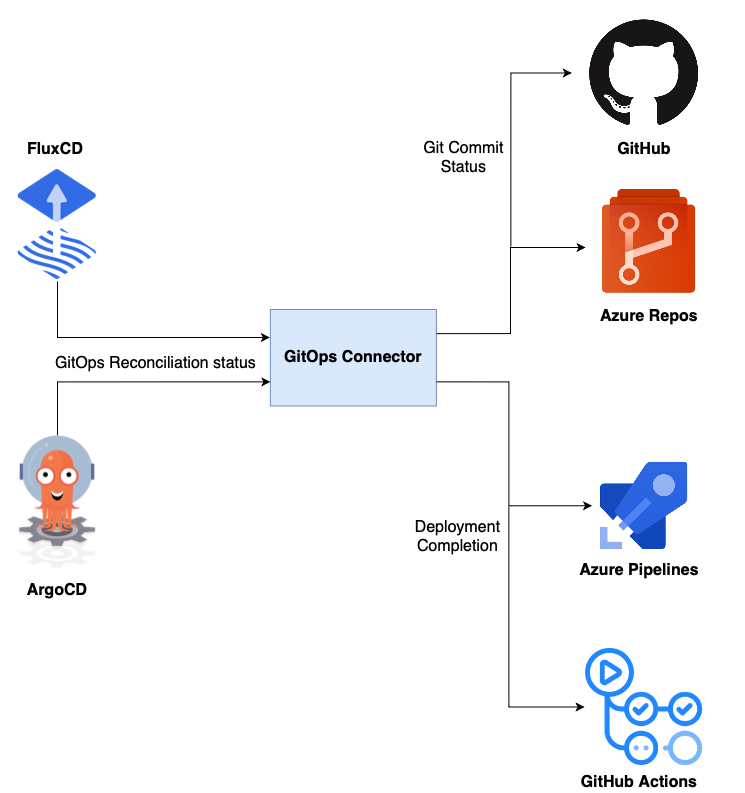
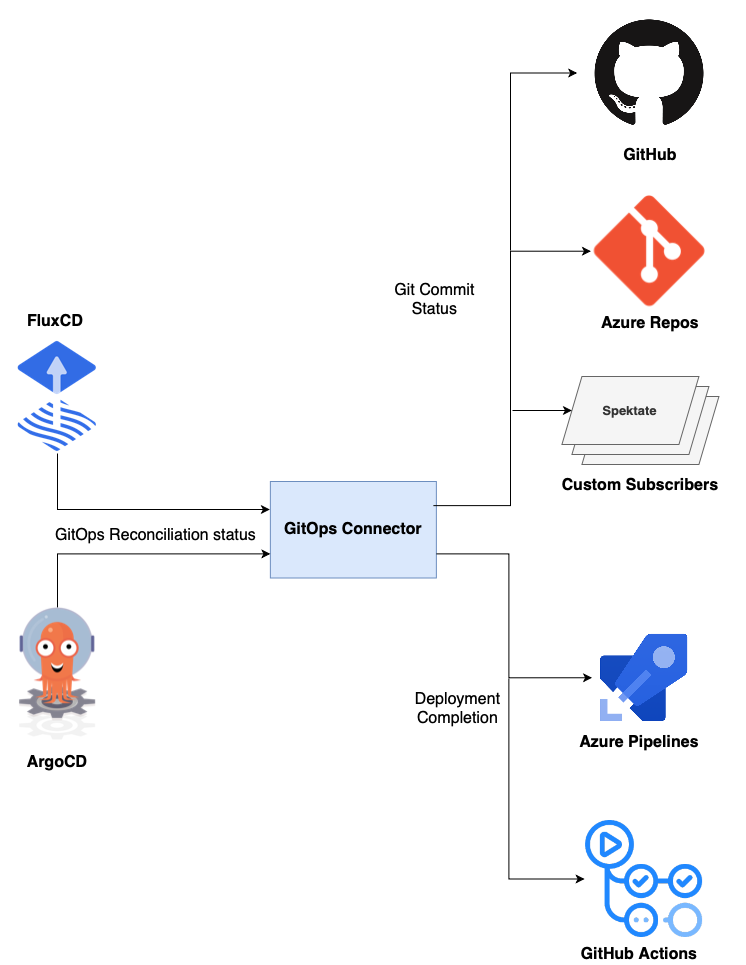
Readme (#12)

diff --git a/README.md b/README.md
@@ -10,6 +10,12 @@ GitOps Connector is a custom component with the goal of enriching the integratio
 
 During the reconciliation process a GitOps operator notifies on every phase change and every health check the GitOps connector. This component serves as an adapter, it "knows" how to communicate to a Git repository and it updates the Git commit status so the synchronization progress is visible in the Manifests repository. When the reconciliation including health check has successfully finished or failed the connector notifies a CI/CD orchestrator, so the CD pipelines/workflows may perform corresponding actions such as testing, post-deployment activities and moving on to the next stage in the deployment chain.
 
+Refer to the following implementations to understand the role the GitOps Connector plays in various GitOps flows:
+
+- [GitOps with Azure DevOps and ArgoCD/Flux](https://github.com/kaizentm/cloud-native-ops/blob/master/docs/azdo-gitops.md)
+- [HLD based CI/CD Pipeline with GitOps connector](https://github.com/kaizentm/cloud-native-ops/blob/master/docs/cicd-hld-pipeline.md)
+- [GitOps with GitHub and Flux v2](https://github.com/kaizentm/cloud-native-ops/blob/master/docs/azdo-gitops-githubfluxv2.md)
+
 ## GitOps operators
 
 The GitOps Connector supports the following Git Ops operators:
@@ -24,12 +30,276 @@ The GitOps Connector supports the following Git repositories:
 - [Azure Repos](https://azure.microsoft.com/services/devops/repos/)
 - [GitHub](https://github.com)
 
+The connector reports the deployment process updates to the Git repositories with the Git commit status:
+
+|Commit Status in GitHub|Commit Status in Azure Repos|
+|---------|-----------|
+|![](./img/gh-commit-status.png)|![](./img/azdo-commit-status.png)|
+
+
+In addition to updating the Git commit status in Git repositories, the GitOps connector may optionally notify a list of custom subscribers with a json payload:
+
+|Attribute|Description|Sample|
+|---------|-----------|------|
+|commit_id| Commit Id in Manifests repo|42e2e5af9d49de268cd1fda3587788da4ace418a|
+|status_name| Event context | Sync; Health|
+|state| Event state | Progressing; Failed|
+|message| Full event message | Pending - Fetched revision 42e2e5af9d49de268cd1fda3587788da4ace418a|
+|callback_url| Callback URL with the details | https://github.com/kaizentm/gitops-manifests/commit/42e2e5af9d49de268cd1fda3587788da4ace418a|
+|gitops_operator| GitOps operator (Flux or ArgoCD) | Flux|
+|genre| Message category | GitRepository |
+
+
+Refer to [installation guide](#installation) for the details on configuring a list of custom subscribers. 
+
+
 ## Notification on Deployment Completion
+
+The GitOps connector analyzes the incoming messages from the GitOps operator and figures out when the deployment is finished, successfully or not. It notifies on this event the CI/CD orchestrator, so the orchestrator can proceed with the CD process.
+
+The notification mechanism on deployment completion varies for different CI/CD orchestrators.
 
 ### Azure Pipelines
 
+An Azure CD pipeline is supposed to create a PR to the manifests repo and wait in agentless mode until the PR is merged and the GitOps operator finishes the deployment. It may use PR properties as a storage for the agentless task callback parameters. 
+When the deployment is finished, the GitOps connector seeks the PR to the manifest repo that caused the deployment and looks for the PR's properties under the **/callback-task-id** path. It expects to find a json object with the following data: 
+
+```
+{"taskid":"$(System.TaskInstanceId)",
+ "jobid:"$(System.JobId)",
+ "planurl":"$(System.CollectionUri)",
+ "planid":"$(System.PlanId)",
+ "projectid":"$(System.TeamProjectId)",
+ "pr_num":"$(pr_num)"}
+```
+
+The GitOps connector uses this data to provide a callback to the agentless task with the following API:
+
+```
+POST {planurl}{projectid}/_apis/distributedtask/hubs/build/plans/{planid}/events?api-version=2.0-preview.1
+payload = {
+    'name': "TaskCompleted",
+    'taskId': {taskid},
+    'jobid': {jobid},
+    'result': "succeeded"/"failed"
+}
+```
+
+Refer to [a sample of such agentless task](https://github.com/kaizentm/cloud-native-ops/blob/master/.pipelines/pr-completion-task-template.yaml) for the implementation details.
+
 ### GitHub Actions
+
+If the CI/CD orchestrator is GitHub Actions, the GitOps connector sends a [dispatch event](https://docs.github.com/en/rest/reference/repos#create-a-repository-dispatch-event) on the successful deployment completion:
+
+```
+POST /repos/{owner}/{repo}/dispatches
+payload = {
+    'event_type': "sync-success",
+    'client_payload': {'sha': {commmit_id},                //Commit Id in source repo that started the CI/CD process 
+                      'runid': {github_workflow_run_id}    //GitHub Actions Workflow RunId that produced artifacts (e.g. Docker Image Tags)
+    }
+```
+
+If the deployment fails, the connector doesn't send a dispatch event to GitHub Actions.
+
+For the implementation details refer to [the CD workflow in this repo](.github/workflows/cd.yaml) that consumes CI artifacts, generates manifests and issues a PR to the manifests repo. Also, look at [the publish workflow](.github/workflows/publish.yaml) which is triggered on the deployment completion by the dispatch event from the GitOps connector. 
+
 
 ## Installation
 
-## Contribution
+### Install GitOps Connector with Helm
+
+Add **kaizentm** repository to Helm repos:
+
+```
+helm repo add kaizentm https://kaizentm.github.io/charts/
+```
+
+
+Prepare **values.yaml** file with the following attributes:
+
+|Attribute|Description|Sample|
+|---------|-----------|------|
+|gitRepositoryType| Git Repository Type (**AZDO** or **GITHUB**)| GITHUB |
+|ciCdOrchestratorType| CI/CD Orchestrator Type (**AZDO** or **GITHUB**)| GITHUB |
+|gitOpsOperatorType| GitOps Operator Type (**FLUX** or **ARGOCD**)| FLUX |
+|gitOpsAppURL| Call back URL from the Commit Status Window| https://github.com/kaizentm/gitops-manifests/commit; https://github.com/microsoft/spektate|
+|orchestratorPAT| GitHub or Azure DevOps personal access token |
+
+
+
+If Git Repository Type is AZDO, add the following attributes:
+|Attribute|Description|Sample|
+|---------|-----------|------|
+|azdoGitOpsRepoName| Azure DevOps Mainifests repository name| gen3-manifest |
+|azdoOrgUrl| Azure DevOps Organization URL| https://dev.azure.com/DataCommons/ProjectDataCommons |
+
+
+
+If CI/CD Orchestrator Type is AZDO, add the following attributes:
+|Attribute|Description|Sample|
+|---------|-----------|------|
+|azdoPrRepoName| Optional. When PRs are not issued to the manifests repo, but to a [separate HLD repo](https://github.com/kaizentm/cloud-native-ops/blob/master/docs/cicd-hld-pipeline.md)  | gen3-hld |
+|azdoOrgUrl| Azure DevOps Organization URL| https://dev.azure.com/DataCommons/ProjectDataCommons |
+
+
+
+If Git Repository Type is GITHUB, add the following attributes:
+|Attribute|Description|Sample|
+|---------|-----------|------|
+|gitHubGitOpsManifestsRepoName| GitHub Mainifests repository name| gitops-manifests |
+|gitHubOrgUrl| API url for the GitHub org| https://api.github.com/repos/kaizentm |
+
+
+
+If CI/CD Orchestrator Type is GITHUB, add the following attributes:
+|Attribute|Description|Sample|
+|---------|-----------|------|
+|gitHubGitOpsRepoName| GitHub Actions repository name| gitops-connector |
+|gitHubOrgUrl| API url for the GitHub org| https://api.github.com/repos/kaizentm |
+
+
+
+Optional. If there are custom Git Commit status subscribers:
+|Attribute|Description|Sample|
+|---------|-----------|------|
+|subscribers| List of key:value pairs defining subscriber name and endpoint | subscribers:<br>&emsp;spektate: 'http://spektate-server:5000/api/flux'
+
+
+A sample **values.yaml** file might look like this one:
+
+```
+gitRepositoryType: GITHUB          
+ciCdOrchestratorType: GITHUB
+gitOpsOperatorType: FLUX
+gitHubGitOpsRepoName: gitops-connector
+gitHubGitOpsManifestsRepoName: gitops-manifests
+gitHubOrgUrl: https://api.github.com/repos/kaizentm
+gitOpsAppURL: https://github.com/kaizentm/gitops-manifests/commit
+orchestratorPAT: <PAT>
+subscribers:
+    spektate: 'http://spektate-server:5000/api/flux'
+```
+
+Install GitOps connector with the following command:
+
+```
+helm upgrade -i gitops-connector kaizentm/gitops-connector \
+--namespace <NAMESPACE> \
+--values values.yaml
+
+#  Check GitOps connector is up and running:
+kubectl get pods -l=app=gitops-connector -n <NAMESPACE>
+
+#  Check the connector logs:
+kubectl logs -l=app=gitops-connector -n <NAMESPACE> -f
+#  DEBUG:root:0 subscribers added.
+#  INFO:timeloop:Starting Timeloop..
+#  [2021-05-25 00:19:23,595] [timeloop] [INFO] Starting Timeloop..
+#  [2021-05-25 00:19:23,595] [timeloop] [INFO] Registered job <function pr_polling_thread_worker at 0x7f3df4f30550>
+#  [2021-05-25 00:19:23,596] [timeloop] [INFO] Timeloop now started. Jobs will run based on the interval set
+#  INFO:timeloop:Registered job <function pr_polling_thread_worker at 0x7f3df4f30550>
+#  INFO:timeloop:Timeloop now started. Jobs will run based on the interval set
+#  INFO:root:Starting commit status thread
+#  INFO:root:Starting periodic PR cleanup
+#  INFO:root:Finished PR cleanup, sleeping for 30 seconds...
+
+```
+
+### Configure FluxCD to send notifications to GitOps connector
+
+[FluxCD Notification Controller](https://fluxcd.io/docs/components/notification/) sends notifications to GitOps connector on events related to **GitRepository** and **Kustomization** Flux resources. Apply the following yaml to the cluster to subscribe GitOps connector instance on Flux notifications: 
+
+```
+apiVersion: notification.toolkit.fluxcd.io/v1beta1
+kind: Alert
+metadata:
+  name: gitops-connector
+  namespace: <NAMESPACE>
+spec:
+  eventSeverity: info
+  eventSources:
+  - kind: GitRepository
+    name: <Flux GitRepository to watch>
+  - kind: Kustomization
+    name: <Flux Kustomization to watch>
+  providerRef:
+    name: gitops-connector
+---
+apiVersion: notification.toolkit.fluxcd.io/v1beta1
+kind: Provider
+metadata:
+  name: gitops-connector
+  namespace: <NAMESPACE>
+spec:
+  type: generic
+  address: http://gitops-connector:8080/gitopsphase
+```
+
+### Configure ArgoCD to send notifications to GitOps connector
+
+[ArgoCD Notifications](https://argocd-notifications.readthedocs.io/en/stable/) sends updates on every deployment phase. Apply the following yaml to the cluster to subscribe GitOps connector instance on ArgoCD notifications:  
+
+```
+apiVersion: v1
+kind: ConfigMap
+metadata:
+  name: argocd-notifications-cm
+  namespace: <NAMESPACE>
+data:
+  config.yaml: |
+    triggers:
+      - name: sync-operation-failed
+        condition: app.status.operationState.phase in ['Error', 'Failed']
+        template: sync-operation-status-change
+      - name: sync-operation-succeeded
+        condition: app.status.operationState.phase in ['Succeeded']
+        template: sync-operation-status-change
+      - name: sync-operation-running
+        condition: app.status.operationState.phase in ['Running']
+        template: sync-operation-status-change
+      - name: sync-operation-progressing
+        condition: app.status.health.status in ['Progressing']
+        template: sync-operation-status-change
+      - name: sync-operation-healthy
+        condition: app.status.health.status in ['Healthy'] && app.status.operationState.phase in ['Succeeded']
+        template: sync-operation-status-change
+      - name: sync-operation-unhealthy
+        condition: app.status.health.status in ['Unknown', 'Suspended', 'Degraded', 'Missing']
+        template: sync-operation-status-change
+    templates:
+      - name: sync-operation-status-change
+        webhook:
+          test-receiver:
+            method: POST
+            body: |
+              {
+                "commitid": "{{.app.status.operationState.operation.sync.revision}}",
+                "phase": "{{.app.status.operationState.phase}}",
+                "sync_status": "{{.app.status.sync.status}}",
+                "health": "{{.app.status.health.status}}",
+                "message": "{{.app.status.operationState.message}}",
+                "resources": {{toJson .app.status.resources}}
+              }
+---
+apiVersion: v1
+kind: Secret
+metadata:
+  name: argocd-notifications-secret
+  namespace: <NAMESPACE>
+stringData:
+  notifiers.yaml: |
+    webhook:
+    - name: test-receiver
+      url: http://gitops-connector:8080/gitopsphase
+      headers:
+      - name: Content-Type
+        value: application/json
+type: Opaque      
+```        
+
+## Contributing
+
+This project welcomes contributions and suggestions. Most contributions require you to agree to a Contributor License Agreement (CLA) declaring that you have the right to, and actually do, grant us the rights to use your contribution. For details, visit <https://cla.microsoft.com.>
+
+This project has adopted the [Microsoft Open Source Code of Conduct](https://opensource.microsoft.com/codeofconduct/). For more information see the [Code of Conduct FAQ](https://opensource.microsoft.com/codeofconduct/faq/) or contact [opencode@microsoft.com](mailto:opencode@microsoft.com) with any additional questions or comments.

diff --git a/internal/setup/flux/README.md b/internal/setup/flux/README.md
@@ -1,0 +1,1 @@
+A set of Flux resources to setup GitOps connector development environment. It's supposed to be used by the maintainers of this repository.

diff --git a/img/src/README.md b/img/src/README.md
@@ -1,0 +1,1 @@
+[draw.io](https://app.diagrams.net) sources of the diagrams.

diff --git a/img/README.md b/img/README.md
@@ -1,0 +1,1 @@
+Images, diagrams used in md documents.

diff --git a/manifests/helm/README.md b/manifests/helm/README.md
@@ -1,0 +1,1 @@
+GitOps connector Helm Chart template.

diff --git a/src/README.md b/src/README.md
@@ -1,0 +1,1 @@
+GitOps Connector source code.
